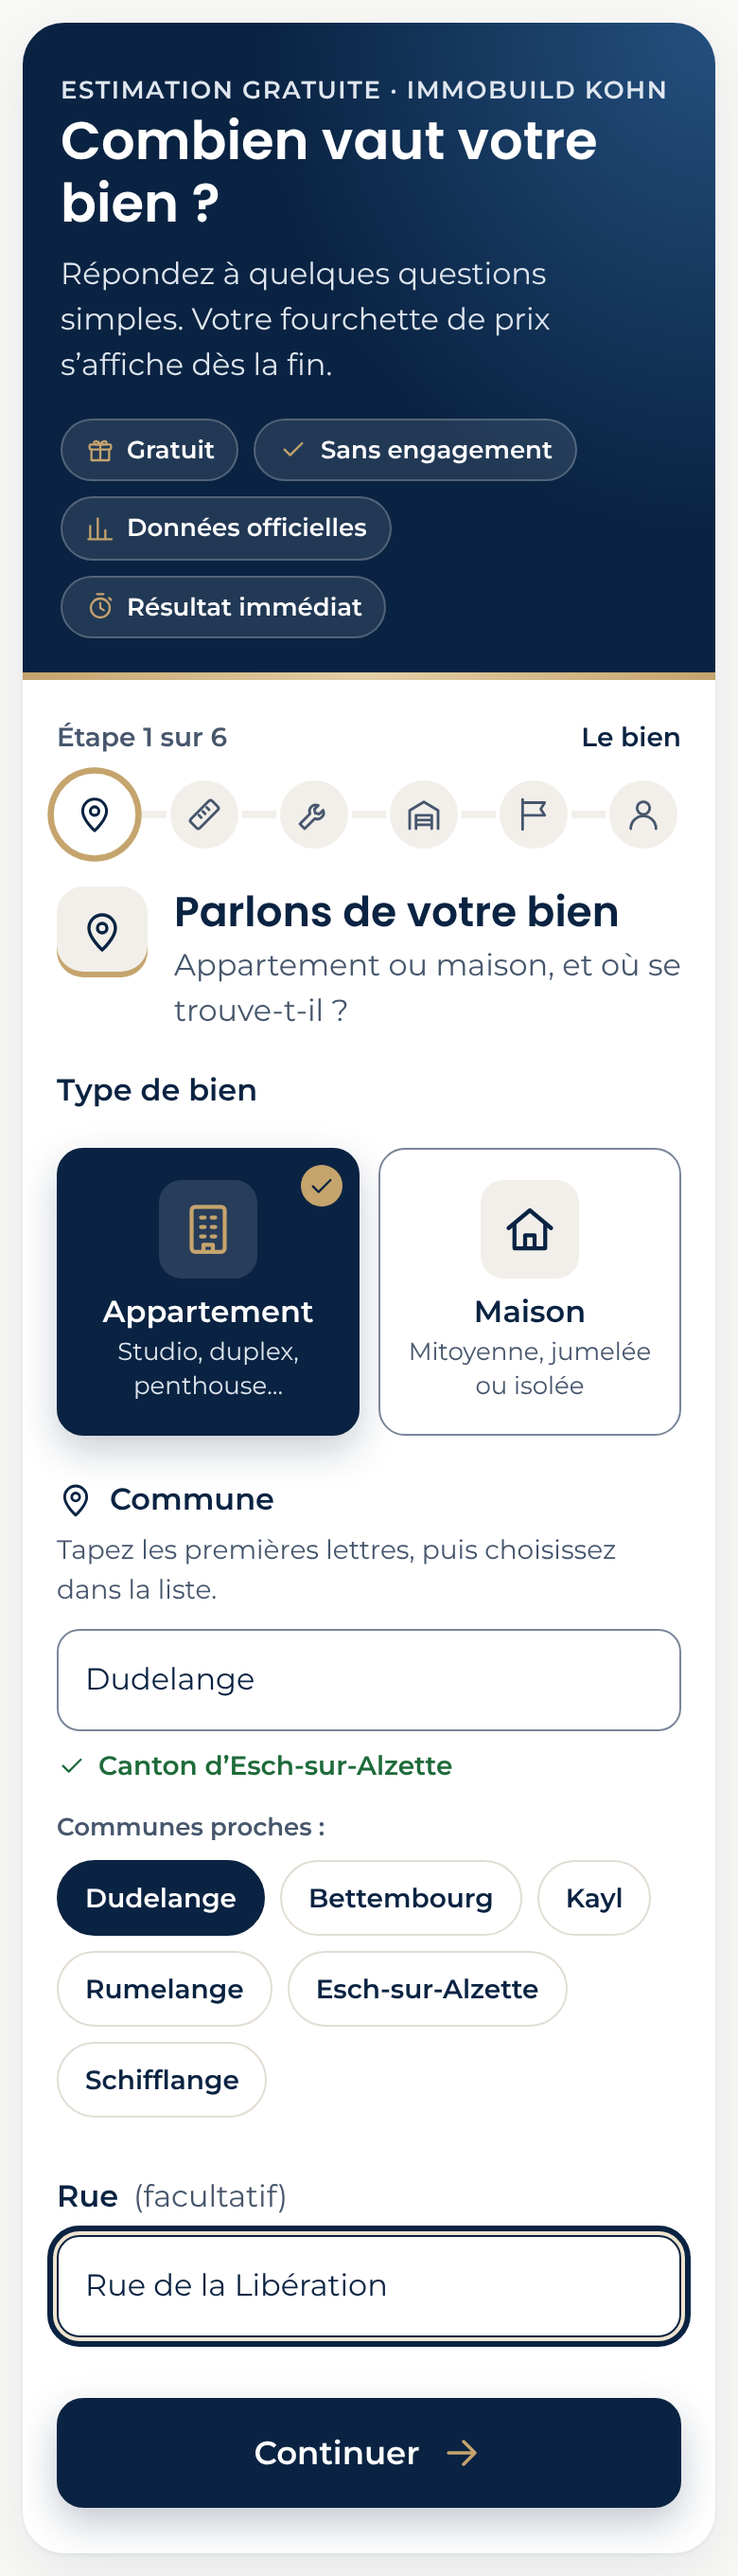
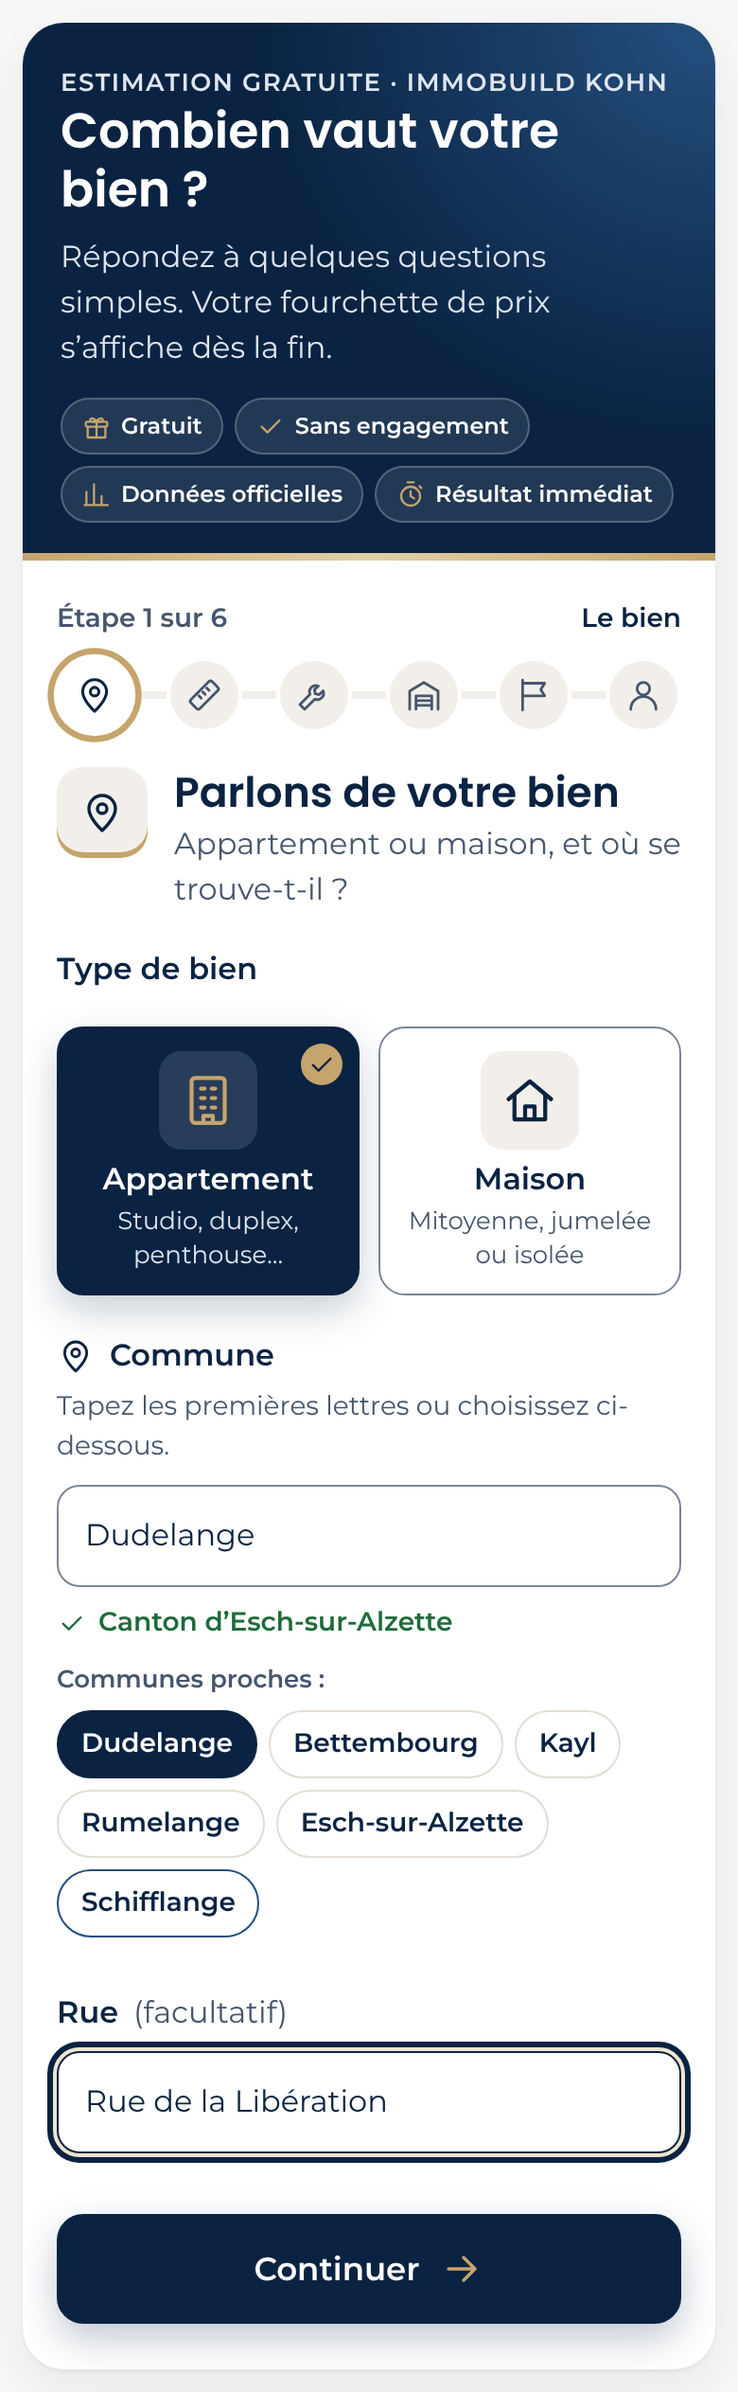
estimation-widget: moins de défilement sur mobile et chargement plus doux
- étiquette énergie sur une seule rangée (Économe → Énergivore) :
  étape 2 de 2,5 à 2,0 écrans
- récapitulatif plus court (gros postes résumés), engagements en pastilles,
  listes et en-tête plus compacts : formulaire −9 % de défilement au total
- embed.js : iframe chargée à l'approche de l'écran (loading=lazy) et
  hauteur de départ proche de la réalité (décalage de la page hôte
  0,043 → 0,019 sur mobile)
- 32 tests, 0 erreur axe-core, Lighthouse mobile local 100/100/100

Claude-Session: https://claude.ai/code/session_01846hvutoHPqEEd264myZJw

diff --git a/estimation-widget/src/styles.css b/estimation-widget/src/styles.css
@@ -44,15 +44,15 @@ button { font: inherit; color: inherit; }
 @media (min-width: 560px) { .card-body { padding: 28px 36px 34px; } }
 
 /* En-tête */
-.intro { background: radial-gradient(120% 140% at 100% 0%, var(--navy-3) 0%, var(--navy) 55%); color: var(--white); padding: 26px 20px 22px; position: relative; }
+.intro { background: radial-gradient(120% 140% at 100% 0%, var(--navy-3) 0%, var(--navy) 55%); color: var(--white); padding: 22px 20px 20px; position: relative; }
 .intro::after { content: ''; position: absolute; left: 0; right: 0; bottom: 0; height: 4px; background: linear-gradient(90deg, var(--gold), #e3cfa6 50%, var(--gold)); }
 @media (min-width: 560px) { .intro { padding: 32px 36px 28px; } }
 .kicker { margin: 0 0 6px; color: var(--gold); font-weight: 600; font-size: 0.8125rem; letter-spacing: 0.06em; text-transform: uppercase; }
-.intro h1 { font-family: var(--font-title); font-size: 1.75rem; line-height: 1.2; margin: 0 0 8px; font-weight: 600; }
+.intro h1 { font-family: var(--font-title); font-size: 1.625rem; line-height: 1.2; margin: 0 0 8px; font-weight: 600; }
 @media (min-width: 560px) { .intro h1 { font-size: 2.125rem; } }
 .intro p { margin: 0; color: #dfe6ef; }
-.badges { list-style: none; display: flex; flex-wrap: wrap; gap: 8px; margin: 16px 0 0; padding: 0; }
-.badges li { display: inline-flex; align-items: center; gap: 6px; padding: 6px 12px; border-radius: 999px; background: rgba(255, 255, 255, 0.1); border: 1px solid rgba(255, 255, 255, 0.22); font-size: 0.8125rem; font-weight: 600; }
+.badges { list-style: none; display: flex; flex-wrap: wrap; gap: 6px; margin: 14px 0 0; padding: 0; }
+.badges li { display: inline-flex; align-items: center; gap: 5px; padding: 5px 10px; border-radius: 999px; background: rgba(255, 255, 255, 0.1); border: 1px solid rgba(255, 255, 255, 0.22); font-size: 0.75rem; font-weight: 600; white-space: nowrap; }
 .badges .ico { color: var(--gold); }
 
 /* Progression */
@@ -90,7 +90,7 @@ button { font: inherit; color: inherit; }
 .anim-in { animation: inUp 0.45s var(--ease); }
 
 /* Champs */
-.field { margin: 0 0 22px; border: 0; padding: 0; min-width: 0; }
+.field { margin: 0 0 20px; border: 0; padding: 0; min-width: 0; }
 .field > label, legend { display: flex; align-items: center; gap: 8px; font-weight: 600; margin-bottom: 8px; padding: 0; }
 .ico-label, .ico-legend { color: var(--navy); width: 20px; height: 20px; }
 .optional { font-weight: 400; color: var(--muted); }
@@ -104,7 +104,7 @@ input[type='text'], input[type='email'], input[type='tel'], select, textarea {
   transition: border-color 0.15s, box-shadow 0.15s;
 }
 input[type='text']:hover, input[type='email']:hover, input[type='tel']:hover, select:hover, textarea:hover { border-color: var(--navy-3); }
-textarea { min-height: 96px; resize: vertical; }
+textarea { min-height: 72px; resize: vertical; }
 select {
   background-image: linear-gradient(45deg, transparent 50%, var(--navy) 50%), linear-gradient(135deg, var(--navy) 50%, transparent 50%);
   background-position: calc(100% - 20px) 50%, calc(100% - 14px) 50%; background-size: 6px 6px; background-repeat: no-repeat; padding-right: 40px;
@@ -144,15 +144,18 @@ input[type='text']:focus, input[type='email']:focus, input[type='tel']:focus, se
 /* Tuiles : icône au-dessus, 2 ou 3 colonnes */
 .choices-tiles .options { grid-template-columns: 1fr 1fr; }
 .choices-tiles.n3 .options { grid-template-columns: repeat(3, 1fr); }
-.choices-tiles .option-box { flex-direction: column; justify-content: center; text-align: center; padding: 16px 10px; gap: 8px; min-height: 104px; }
+.choices-tiles .option-box { flex-direction: column; justify-content: center; text-align: center; padding: 12px 8px; gap: 6px; min-height: 92px; }
 .choices-tiles .option-icon { width: 52px; height: 52px; }
 .choices-tiles .option-icon .ico { width: 30px; height: 30px; }
 .choices-tiles.n3 .option-label { font-size: 0.875rem; }
-.choices-tiles.n4 .option-box { min-height: 96px; }
+.choices-tiles.n4 .option-box { min-height: 84px; padding: 10px 8px; }
+.choices-tiles.n4 .option-icon { width: 40px; height: 40px; }
+.choices-tiles.n4 .option-icon .ico { width: 24px; height: 24px; }
 
 /* Liste : une colonne, icône à gauche */
 .choices-list .options { grid-template-columns: 1fr; gap: 8px; }
-.choices-list .option-box { padding-right: 40px; }
+.choices-list .option-box { padding: 8px 40px 8px 10px; min-height: 60px; }
+.choices-list .option-icon { width: 40px; height: 40px; }
 
 /* Pastilles (étage, ascenseur) */
 .choices-chips .options { display: flex; flex-wrap: wrap; gap: 8px; }
@@ -171,9 +174,9 @@ input[type='text']:focus, input[type='email']:focus, input[type='tel']:focus, se
 .combo li.empty { color: var(--muted); cursor: default; }
 .commune-canton { display: flex; align-items: center; gap: 6px; min-height: 0; margin: 8px 0 0; font-size: 0.875rem; font-weight: 600; color: var(--up); }
 .commune-canton:empty { display: none; }
-.quick { display: flex; flex-wrap: wrap; align-items: center; gap: 8px; margin-top: 12px; }
+.quick { display: flex; flex-wrap: wrap; align-items: center; gap: 6px; margin-top: 10px; }
 .quick-label { font-size: 0.8125rem; color: var(--muted); font-weight: 600; width: 100%; }
-.pill { min-height: 40px; padding: 8px 14px; border-radius: 999px; border: 1.5px solid var(--line-soft); background: var(--white); font-size: 0.875rem; font-weight: 600; cursor: pointer; transition: background 0.15s, border-color 0.15s; }
+.pill { min-height: 36px; padding: 6px 12px; border-radius: 999px; border: 1.5px solid var(--line-soft); background: var(--white); font-size: 0.875rem; font-weight: 600; cursor: pointer; transition: background 0.15s, border-color 0.15s; }
 .pill:hover { border-color: var(--navy-3); }
 .pill.is-active { background: var(--navy); border-color: var(--navy); color: var(--white); }
 
@@ -197,30 +200,36 @@ input[type='text']:focus, input[type='email']:focus, input[type='tel']:focus, se
 .range:focus-visible { outline: 3px solid var(--navy); outline-offset: 2px; border-radius: 6px; }
 
 /* Étiquette énergie */
-.energy-bars { display: grid; gap: 6px; }
+.energy-bars { display: grid; grid-template-columns: repeat(10, 1fr); gap: 3px; }
 .energy-opt { position: relative; display: block; cursor: pointer; }
 .energy-bar {
-  position: relative; display: flex; align-items: center; gap: 8px; height: 36px; padding: 0 14px; width: var(--w, 60%);
-  border-radius: 8px 22px 22px 8px; border: 2px solid transparent; font-family: var(--font-title); font-weight: 600; font-size: 1.0625rem;
-  transition: transform 0.15s var(--ease), box-shadow 0.15s, width 0.2s;
+  position: relative; display: flex; align-items: flex-end; justify-content: center; height: 52px; padding: 0 0 7px;
+  border: 2px solid transparent; font-family: var(--font-title); font-weight: 600; font-size: 0.9375rem;
+  transition: transform 0.15s var(--ease), box-shadow 0.15s;
 }
-.energy-opt:hover .energy-bar { transform: translateX(4px); }
-.energy-bar .option-check { top: 50%; right: 10px; margin-top: -11px; background: var(--white); color: var(--navy); }
-.energy-opt input:checked + .energy-bar { border-color: var(--navy); box-shadow: 0 0 0 3px var(--white), 0 0 0 5px var(--navy); width: calc(var(--w, 60%) + 8%); }
+.energy-opt:first-child .energy-bar { border-radius: 10px 0 0 10px; }
+.energy-opt:nth-child(10) .energy-bar { border-radius: 0 10px 10px 0; }
+.energy-opt:hover .energy-bar { transform: translateY(-3px); }
+.energy-bar .option-check { top: 4px; left: 50%; right: auto; margin-left: -9px; width: 18px; height: 18px; background: var(--white); color: var(--navy); }
+.energy-bar .option-check .ico { width: 12px; height: 12px; }
+.energy-opt input:checked + .energy-bar { z-index: 1; transform: translateY(-4px) scale(1.12); border-color: var(--white); box-shadow: 0 0 0 3px var(--navy), 0 8px 16px rgba(10, 35, 66, 0.25); border-radius: 8px; }
 .energy-opt input:checked + .energy-bar .option-check { opacity: 1; transform: scale(1); }
-.energy-opt input:focus-visible + .energy-bar { outline: 3px solid var(--navy); outline-offset: 4px; }
-.e-Ap .energy-bar { --w: 44%; background: #0b6b3a; color: #fff; }
-.e-A .energy-bar { --w: 49%; background: #17803f; color: #fff; }
-.e-B .energy-bar { --w: 54%; background: #5aa532; color: var(--navy); }
-.e-C .energy-bar { --w: 59%; background: #a6c838; color: var(--navy); }
-.e-D .energy-bar { --w: 64%; background: #f0dc3a; color: var(--navy); }
-.e-E .energy-bar { --w: 69%; background: #f5b02e; color: var(--navy); }
-.e-F .energy-bar { --w: 74%; background: #ec8530; color: var(--navy); }
-.e-G .energy-bar { --w: 79%; background: #ee7a4c; color: var(--navy); }
-.e-H .energy-bar { --w: 84%; background: #c63a2c; color: #fff; }
-.e-I .energy-bar { --w: 89%; background: #9c1f22; color: #fff; }
-.energy-unknown .energy-bar { --w: 100%; background: var(--white); border-color: var(--line); color: var(--navy); font-family: var(--font-text); font-size: 0.9375rem; border-radius: 22px; margin-top: 4px; }
-.energy-unknown input:checked + .energy-bar { background: var(--navy); color: var(--white); width: 100%; }
+.energy-opt input:focus-visible + .energy-bar { outline: 3px solid var(--navy); outline-offset: 3px; }
+.e-Ap .energy-bar { background: #0b6b3a; color: #fff; }
+.e-A .energy-bar { background: #17803f; color: #fff; }
+.e-B .energy-bar { background: #5aa532; color: var(--navy); }
+.e-C .energy-bar { background: #a6c838; color: var(--navy); }
+.e-D .energy-bar { background: #f0dc3a; color: var(--navy); }
+.e-E .energy-bar { background: #f5b02e; color: var(--navy); }
+.e-F .energy-bar { background: #ec8530; color: var(--navy); }
+.e-G .energy-bar { background: #ee7a4c; color: var(--navy); }
+.e-H .energy-bar { background: #c63a2c; color: #fff; }
+.e-I .energy-bar { background: #9c1f22; color: #fff; }
+.energy-scale-ends { display: flex; justify-content: space-between; margin: 6px 0 10px; font-size: 0.75rem; font-weight: 600; color: var(--muted); }
+.energy-unknown { grid-column: 1 / -1; }
+.energy-unknown .energy-bar { height: 44px; align-items: center; gap: 8px; padding: 0 14px; background: var(--white); border-color: var(--line); color: var(--navy); font-family: var(--font-text); font-size: 0.9375rem; border-radius: 22px; }
+.energy-unknown:hover .energy-bar { transform: none; border-color: var(--navy-3); }
+.energy-unknown input:checked + .energy-bar { background: var(--navy); color: var(--white); transform: none; box-shadow: none; border-color: var(--navy); border-radius: 22px; }
 
 /* Gros postes : échelle de notes */
 .fill-all { display: flex; justify-content: flex-end; margin: -6px 0 10px; }
@@ -257,10 +266,10 @@ input[type='text']:focus, input[type='email']:focus, input[type='tel']:focus, se
 .toggle input:focus-visible + .toggle-box { outline: 3px solid var(--navy); outline-offset: 2px; }
 
 /* Récapitulatif (étape 6) */
-.recap { background: var(--beige); border-radius: var(--radius); padding: 14px 16px; margin-bottom: 22px; }
+.recap { background: var(--beige); border-radius: var(--radius); padding: 12px 14px; margin-bottom: 20px; }
 .recap h3 { display: flex; align-items: center; gap: 8px; margin: 0 0 8px; font-family: var(--font-title); font-size: 1rem; font-weight: 600; }
 .recap ul { list-style: none; margin: 0; padding: 0; }
-.recap li { display: flex; justify-content: space-between; align-items: flex-start; gap: 12px; padding: 8px 0; border-top: 1px solid var(--line-soft); font-size: 0.875rem; }
+.recap li { display: flex; justify-content: space-between; align-items: center; gap: 12px; padding: 4px 0; border-top: 1px solid var(--line-soft); font-size: 0.875rem; }
 .recap li:first-child { border-top: 0; }
 .link-btn { display: inline-flex; align-items: center; gap: 6px; flex: none; padding: 6px 4px; border: 0; background: none; color: var(--navy); font-weight: 600; font-size: 0.875rem; text-decoration: underline; text-underline-offset: 3px; cursor: pointer; min-height: 32px; }
 .link-btn:hover { color: var(--navy-3); }
@@ -270,8 +279,8 @@ input[type='text']:focus, input[type='email']:focus, input[type='tel']:focus, se
 .check { display: flex; gap: 12px; align-items: flex-start; cursor: pointer; font-weight: 500; font-size: 0.9375rem; }
 .check input { width: 24px; height: 24px; margin: 1px 0 0; flex: none; accent-color: var(--navy); }
 .check a { color: var(--navy); font-weight: 600; }
-.trust { list-style: none; margin: 0 0 6px; padding: 0; display: grid; gap: 8px; }
-.trust li { display: flex; align-items: center; gap: 10px; font-size: 0.875rem; color: var(--muted); font-weight: 500; }
+.trust { list-style: none; margin: 0 0 6px; padding: 0; display: flex; flex-wrap: wrap; gap: 6px 14px; }
+.trust li { display: flex; align-items: center; gap: 6px; font-size: 0.8125rem; color: var(--muted); font-weight: 500; }
 .trust .ico { color: var(--up); }
 .hp { position: absolute; left: -10000px; width: 1px; height: 1px; overflow: hidden; }
 

diff --git a/estimation-widget/src/ui/steps.ts b/estimation-widget/src/ui/steps.ts
@@ -176,7 +176,8 @@ function recapCard(ctx: Ctx): string {
     v.type === 'maison' ? t(`fields.maisonTypeOptions.${v.maisonType}`) : t(`fields.etageOptions.${v.etage}`),
   ]);
   const postes = v.type === 'maison' ? POSTES_MAISON : POSTES_APPARTEMENT;
-  line(3, postes.map((p) => `${t(`fields.postes.${p}`)} : ${t(`fields.posteOptions.${v[`poste_${p}`]}`)}`));
+  const notGood = postes.filter((p) => v[`poste_${p}`] !== 'bon');
+  line(3, notGood.length ? notGood.map((p) => `${t(`fields.postes.${p}`)} : ${t(`fields.posteShort.${v[`poste_${p}`]}`)}`) : [t('recap.allGood')]);
   line(4, [
     Number(v.garages) > 0 && t('recap.garages', { n: String(v.garages) }),
     Number(v.parkings) > 0 && t('recap.parkings', { n: String(v.parkings) }),
@@ -230,6 +231,7 @@ function energyScale(ctx: Ctx): string {
   <legend>${icon('feuille', 'ico ico-legend')}<span>${esc(t('fields.energieLegend'))}</span></legend>
   <p class="help" id="energie-help">${esc(t('fields.energieHelp'))}</p>
   ${errorMessage(ctx, name)}
+  <div class="energy-scale-ends" aria-hidden="true"><span>${esc(t('fields.energieLow'))}</span><span>${esc(t('fields.energieHigh'))}</span></div>
   <div class="energy-bars">
     ${letters
       .map(
@@ -345,7 +347,7 @@ ${input(ctx, 'email', t('fields.email'), { type: 'email', autocomplete: 'email',
 </fieldset>
 <div class="field${hasErr(ctx, 'message')}" data-field="message">
   <label for="message">${labelText(ctx, t('fields.message'), true)}</label>
-  <textarea id="message" name="message" rows="3" maxlength="2000"${describedBy(ctx, 'message', false)}>${esc(ctx.v.message ?? '')}</textarea>
+  <textarea id="message" name="message" rows="2" maxlength="2000"${describedBy(ctx, 'message', false)}>${esc(ctx.v.message ?? '')}</textarea>
   ${errorMessage(ctx, 'message')}
 </div>
 <div class="hp" aria-hidden="true">

diff --git a/estimation-widget/public/embed.js b/estimation-widget/public/embed.js
@@ -29,7 +29,11 @@
     f.title = LANGS[lang];
     f.setAttribute('data-immobuild-frame', '');
     f.setAttribute('referrerpolicy', 'strict-origin-when-cross-origin');
-    f.style.cssText = 'display:block;width:100%;height:720px;border:0;overflow:hidden;background:#f8f8f6;border-radius:22px;';
+    f.setAttribute('loading', 'lazy'); // ne charge l'outil que lorsqu'il approche de l'écran
+    // Hauteur de départ proche de la vraie hauteur de l'étape 1 : évite que la page « saute » au chargement
+    var w = el.clientWidth || window.innerWidth;
+    var h0 = w < 400 ? 1300 : w < 460 ? 1190 : 1110;
+    f.style.cssText = 'display:block;width:100%;height:' + h0 + 'px;border:0;overflow:hidden;background:#f8f8f6;border-radius:22px;';
     el.appendChild(f);
   }
 
